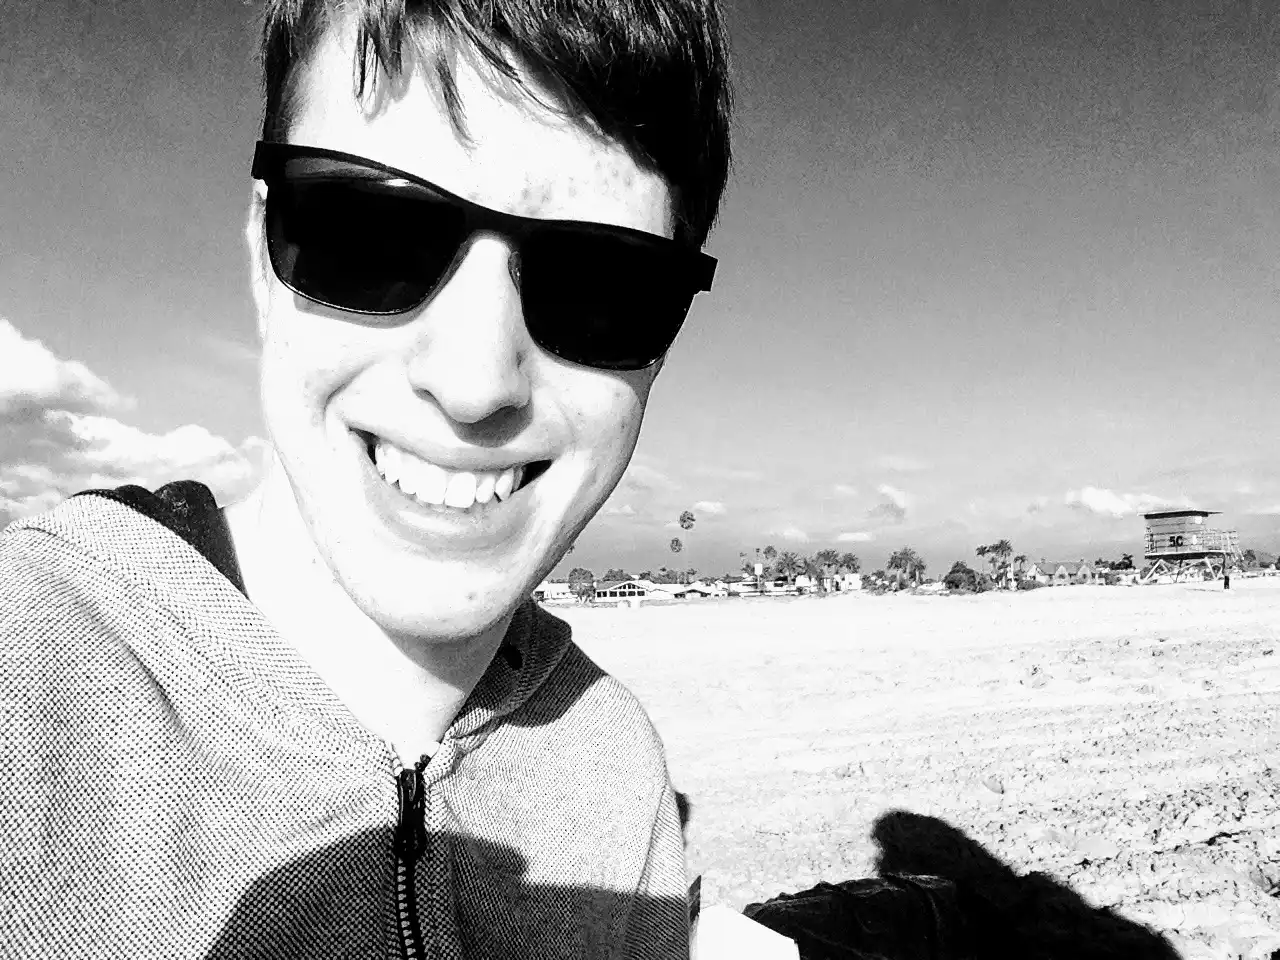
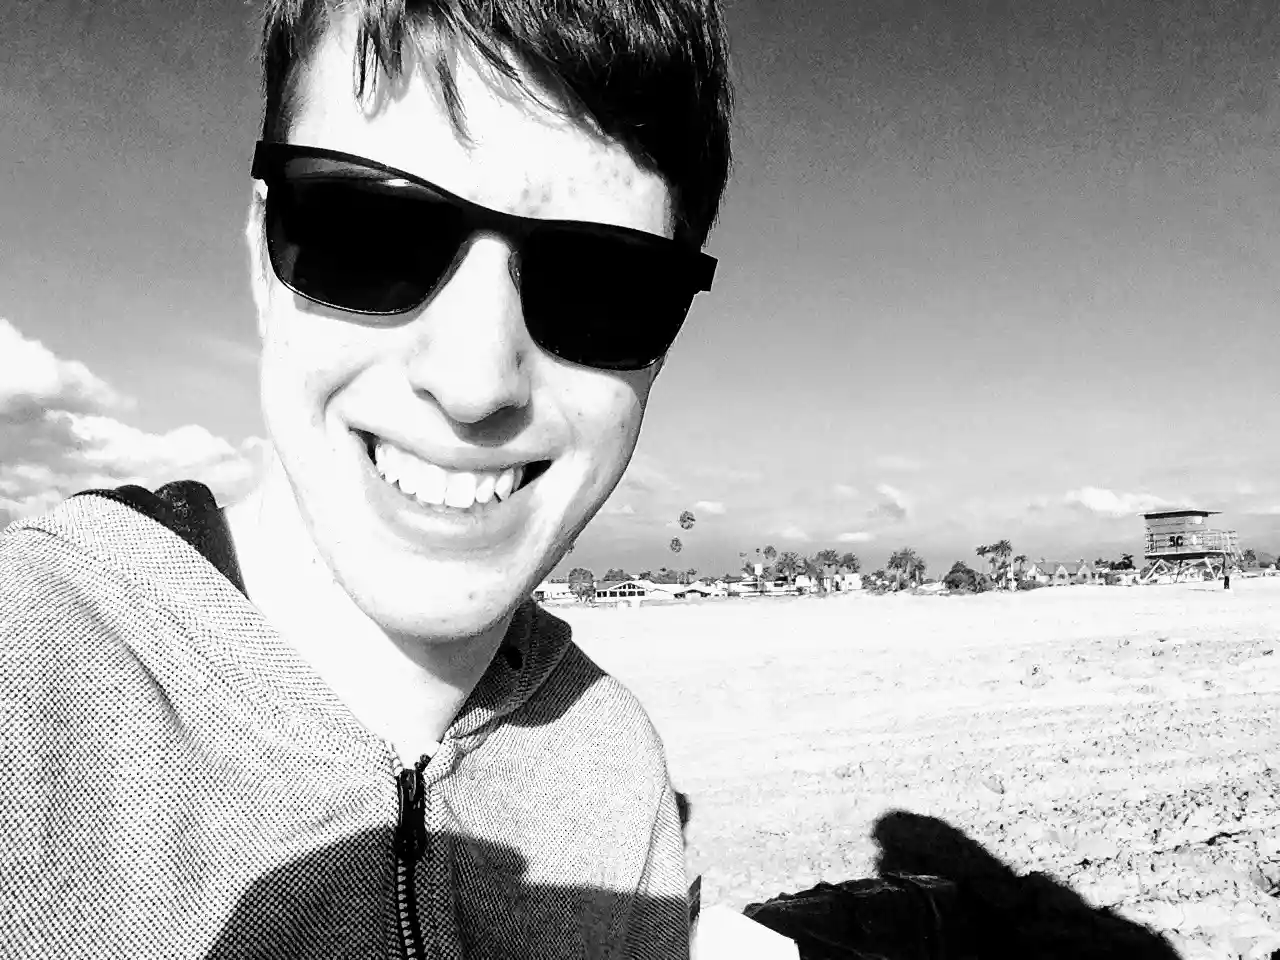
optimize images

diff --git a/config/data/markdown/de/about.md b/config/data/markdown/de/about.md
@@ -1,4 +1,4 @@
-![Image of myself](build/images/IMG_5233.JPG) {.rounded-full .w-64 .h-64 .object-center .object-cover .m-auto .shadow-lg}
+![Image of myself](build/images/IMG_5233.jpg) {.rounded-full .w-64 .h-64 .object-center .object-cover .m-auto .shadow-lg}
 
 <br />
 

diff --git a/config/data/markdown/en/about.md b/config/data/markdown/en/about.md
@@ -1,4 +1,4 @@
-![Image of myself](build/images/IMG_5233.JPG) {.rounded-full .w-64 .h-64 .object-center .object-cover .m-auto .shadow-lg}
+![Image of myself](build/images/IMG_5233.jpg) {.rounded-full .w-64 .h-64 .object-center .object-cover .m-auto .shadow-lg}
 
 <br />
 
